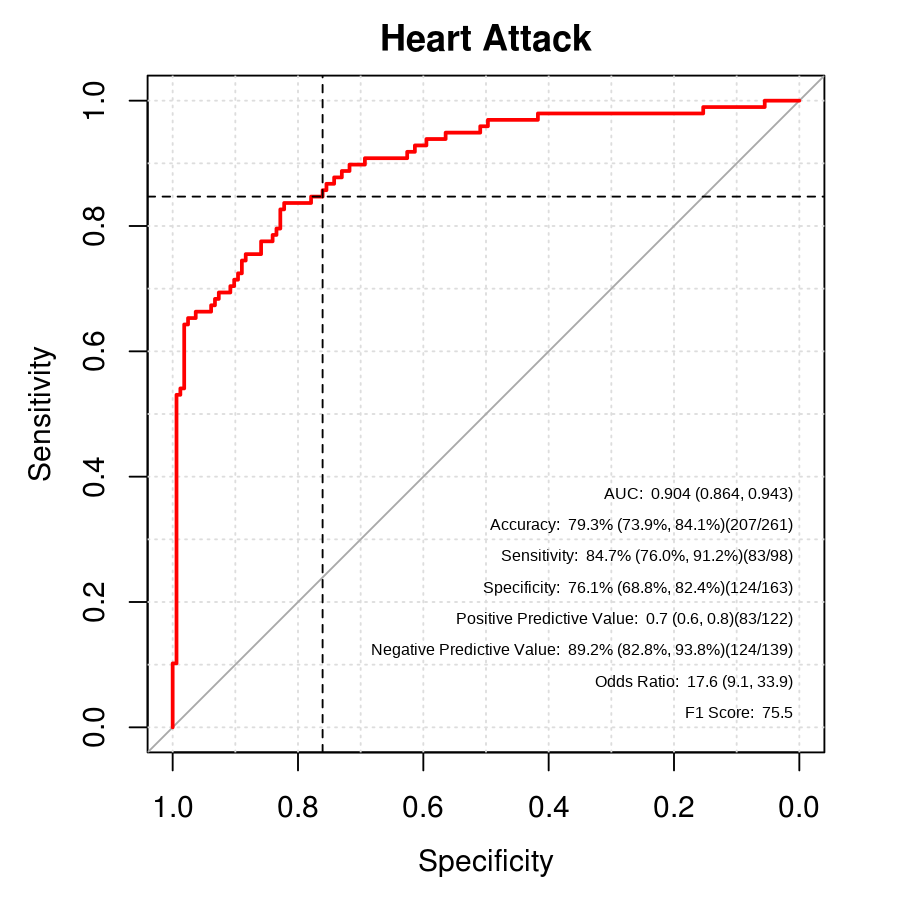
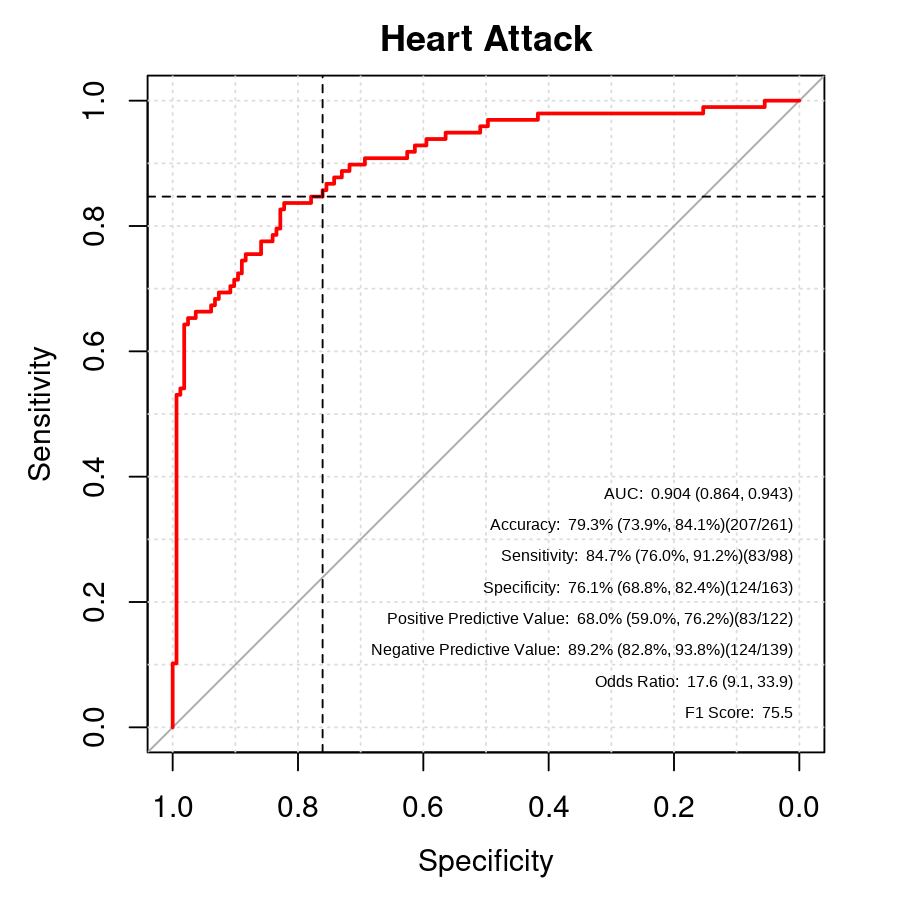
update docs/website

Changed region(s): [[0.4356, 0.6844, 0.8089, 0.7156], [0.4356, 0.0311, 0.6533, 0.0622], [0.0311, 0.4978, 0.0622, 0.5289]]

diff --git a/docs/reference/dx_forest.html b/docs/reference/dx_forest.html
@@ -6,7 +6,7 @@
 <meta http-equiv="X-UA-Compatible" content="IE=edge">
 <meta name="viewport" content="width=device-width, initial-scale=1.0">
 
-<title>Edit a cell within an object returned from dx_forest — dx_edit_cell • diagnosticSummary</title>
+<title>Create table with odds ratios displayed graphically — dx_forest • diagnosticSummary</title>
 
 <!-- jquery -->
 <script src="https://cdnjs.cloudflare.com/ajax/libs/jquery/3.3.1/jquery.min.js" integrity="sha256-FgpCb/KJQlLNfOu91ta32o/NMZxltwRo8QtmkMRdAu8=" crossorigin="anonymous"></script>
@@ -30,9 +30,9 @@
 
 
 
-<meta property="og:title" content="Edit a cell within an object returned from dx_forest — dx_edit_cell" />
+<meta property="og:title" content="Create table with odds ratios displayed graphically — dx_forest" />
 
-<meta property="og:description" content="A convenient wrapper used to edit cells of a gtable." />
+<meta property="og:description" content="Generate a table of diagnostic measures" />
 <meta name="twitter:card" content="summary" />
 
 
@@ -94,51 +94,77 @@
 <div class="row">
   <div class="col-md-9 contents">
     <div class="page-header">
-    <h1>Edit a cell within an object returned from dx_forest</h1>
+    <h1>Create table with odds ratios displayed graphically</h1>
     
-    <div class="hidden name"><code>dx_edit_cell.Rd</code></div>
+    <div class="hidden name"><code>dx_forest.Rd</code></div>
     </div>
 
     <div class="ref-description">
     
-    <p>A convenient wrapper used to edit cells of a gtable.</p>
+    <p>Generate a table of diagnostic measures</p>
     
     </div>
 
-    <pre class="usage"><span class='fu'>dx_edit_cell</span>(<span class='no'>table</span>, <span class='no'>row</span>, <span class='no'>col</span>, <span class='kw'>name</span> <span class='kw'>=</span> <span class='st'>"core-fg"</span>, <span class='no'>...</span>)</pre>
+    <pre class="usage"><span class='fu'>dx_forest</span>(
+  <span class='no'>dx_obj</span>,
+  <span class='kw'>breaks</span> <span class='kw'>=</span> <span class='fl'>NA</span>,
+  <span class='kw'>limits</span> <span class='kw'>=</span> <span class='fl'>NA</span>,
+  <span class='kw'>tick_label_size</span> <span class='kw'>=</span> <span class='fl'>6.5</span>,
+  <span class='kw'>trans</span> <span class='kw'>=</span> <span class='fu'><a href='https://www.rdocumentation.org/packages/base/topics/c'>c</a></span>(<span class='fl'>NA</span>, <span class='st'>"log10"</span>),
+  <span class='kw'>return_grid</span> <span class='kw'>=</span> <span class='fl'>FALSE</span>
+)</pre>
     
     <h2 class="hasAnchor" id="arguments"><a class="anchor" href="#arguments"></a>Arguments</h2>
     <table class="ref-arguments">
     <colgroup><col class="name" /><col class="desc" /></colgroup>
     <tr>
-      <th>table</th>
-      <td><p>a table returned from dx_forest</p></td>
+      <th>dx_obj</th>
+      <td><p>An object of class dx</p></td>
     </tr>
     <tr>
-      <th>row</th>
-      <td><p>Numeric vector of rows to edit</p></td>
+      <th>breaks</th>
+      <td><p>A numeric vector of breaks to include on axis ticks.  If left empty, breaks will be determined using the min and max value from 95% CIs.</p></td>
     </tr>
     <tr>
-      <th>col</th>
-      <td><p>Numeric vector of columns to edit</p></td>
+      <th>limits</th>
+      <td><p>Limits for axis ticks.  Ticks will be generates using base::breaks.  Ignored if breaks are passed.</p></td>
     </tr>
     <tr>
-      <th>name</th>
-      <td><p>Name of table layer to edit</p></td>
+      <th>tick_label_size</th>
+      <td><p>Font size for axis labels.</p></td>
     </tr>
     <tr>
-      <th>...</th>
-      <td><p>Parameters passed to editGrob such as gpar or hjust.</p></td>
+      <th>trans</th>
+      <td><p>Method to transform the odds ratio by.  Currently, only log10 is supported.</p></td>
+    </tr>
+    <tr>
+      <th>return_grid</th>
+      <td><p>Should a grid object be returned? If FALSE, grid is drawn using grid.draw.</p></td>
     </tr>
     </table>
     
 
+    <h2 class="hasAnchor" id="examples"><a class="anchor" href="#examples"></a>Examples</h2>
+    <pre class="examples"><div class='input'><span class='no'>dx_obj</span> <span class='kw'>&lt;-</span> <span class='fu'><a href='dx.html'>dx</a></span>(
+  <span class='kw'>data</span> <span class='kw'>=</span> <span class='no'>dx_heart_failure</span>,
+  <span class='kw'>study_name</span> <span class='kw'>=</span> <span class='st'>"Heart Attack Prediction"</span>,
+  <span class='kw'>data_description</span> <span class='kw'>=</span> <span class='st'>"Validation Data"</span>,
+  <span class='kw'>true_varname</span> <span class='kw'>=</span> <span class='st'>"truth"</span>,
+  <span class='kw'>pred_varname</span> <span class='kw'>=</span> <span class='st'>"predicted"</span>,
+  <span class='kw'>outcome_label</span> <span class='kw'>=</span> <span class='st'>"Heart Attack"</span>,
+  <span class='kw'>threshold_range</span> <span class='kw'>=</span> <span class='fu'><a href='https://www.rdocumentation.org/packages/base/topics/c'>c</a></span>(<span class='fl'>.1</span>,<span class='fl'>.2</span>,<span class='fl'>.3</span>),
+  <span class='kw'>setthreshold</span> <span class='kw'>=</span> <span class='fl'>.3</span>,
+  <span class='kw'>grouping_variables</span> <span class='kw'>=</span> <span class='fu'><a href='https://www.rdocumentation.org/packages/base/topics/c'>c</a></span>(<span class='st'>"AgeGroup"</span>, <span class='st'>"Sex"</span>, <span class='st'>"AgeSex"</span>)
+)
+<span class='fu'>dx_forest</span>(<span class='no'>dx_obj</span>)</div><div class='input'><span class='fu'>dx_forest</span>(<span class='no'>dx_obj</span>, <span class='kw'>trans</span> <span class='kw'>=</span> <span class='st'>"log10"</span>)</div><div class='img'><img src='dx_forest-1.png' alt='' width='576' height='576' /></div></pre>
   </div>
   <div class="col-md-3 hidden-xs hidden-sm" id="sidebar">
     <h2>Contents</h2>
     <ul class="nav nav-pills nav-stacked">
       <li><a href="#arguments">Arguments</a></li>
-                </ul>
+            
+      <li><a href="#examples">Examples</a></li>
+    </ul>
 
   </div>
 </div>

diff --git a/docs/reference/dx.html b/docs/reference/dx.html
@@ -64,7 +64,7 @@ diagnostic test" />
       </button>
       <span class="navbar-brand">
         <a class="navbar-link" href="../index.html">diagnosticSummary</a>
-        <span class="version label label-default" data-toggle="tooltip" data-placement="bottom" title="Released version">0.0.0.9000</span>
+        <span class="version label label-default" data-toggle="tooltip" data-placement="bottom" title="Released version">0.0.0.9002</span>
       </span>
     </div>
 
@@ -107,12 +107,24 @@ diagnostic test</p>
     
     </div>
 
-    <pre class="usage"><span class='fu'>dx</span>(<span class='no'>data</span>, <span class='no'>study_name</span>, <span class='no'>data_description</span>, <span class='kw'>classlabels</span> <span class='kw'>=</span> <span class='fu'><a href='https://www.rdocumentation.org/packages/base/topics/c'>c</a></span>(<span class='st'>"Negative"</span>,
-  <span class='st'>"Positive"</span>), <span class='kw'>threshold_range</span> <span class='kw'>=</span> <span class='fl'>NA</span>, <span class='no'>outcome_label</span>, <span class='no'>pred_varname</span>,
-  <span class='no'>true_varname</span>, <span class='kw'>setthreshold</span> <span class='kw'>=</span> <span class='fl'>0.5</span>, <span class='kw'>poslabel</span> <span class='kw'>=</span> <span class='fl'>1</span>,
-  <span class='kw'>grouping_variables</span> <span class='kw'>=</span> <span class='fl'>NA</span>, <span class='kw'>citype</span> <span class='kw'>=</span> <span class='st'>"exact"</span>, <span class='kw'>bootreps</span> <span class='kw'>=</span> <span class='fl'>2000</span>,
-  <span class='kw'>bootseed</span> <span class='kw'>=</span> <span class='fl'>20191015</span>, <span class='kw'>doboot</span> <span class='kw'>=</span> <span class='fl'>FALSE</span>,
-  <span class='kw'>roc_filename</span> <span class='kw'>=</span> <span class='fu'><a href='https://www.rdocumentation.org/packages/base/topics/paste'>paste0</a></span>(<span class='no'>study_name</span>, <span class='st'>"_ROC"</span>, <span class='no'>data_description</span>, <span class='st'>".pdf"</span>))</pre>
+    <pre class="usage"><span class='fu'>dx</span>(
+  <span class='no'>data</span>,
+  <span class='no'>study_name</span>,
+  <span class='no'>data_description</span>,
+  <span class='kw'>classlabels</span> <span class='kw'>=</span> <span class='fu'><a href='https://www.rdocumentation.org/packages/base/topics/c'>c</a></span>(<span class='st'>"Negative"</span>, <span class='st'>"Positive"</span>),
+  <span class='kw'>threshold_range</span> <span class='kw'>=</span> <span class='fl'>NA</span>,
+  <span class='no'>outcome_label</span>,
+  <span class='no'>pred_varname</span>,
+  <span class='no'>true_varname</span>,
+  <span class='kw'>setthreshold</span> <span class='kw'>=</span> <span class='fl'>0.5</span>,
+  <span class='kw'>poslabel</span> <span class='kw'>=</span> <span class='fl'>1</span>,
+  <span class='kw'>grouping_variables</span> <span class='kw'>=</span> <span class='fl'>NA</span>,
+  <span class='kw'>citype</span> <span class='kw'>=</span> <span class='st'>"exact"</span>,
+  <span class='kw'>bootreps</span> <span class='kw'>=</span> <span class='fl'>2000</span>,
+  <span class='kw'>bootseed</span> <span class='kw'>=</span> <span class='fl'>20191015</span>,
+  <span class='kw'>doboot</span> <span class='kw'>=</span> <span class='fl'>FALSE</span>,
+  <span class='kw'>roc_filename</span> <span class='kw'>=</span> <span class='fu'><a href='https://www.rdocumentation.org/packages/base/topics/paste'>paste0</a></span>(<span class='no'>study_name</span>, <span class='st'>"_ROC"</span>, <span class='no'>data_description</span>, <span class='st'>".pdf"</span>)
+)</pre>
     
     <h2 class="hasAnchor" id="arguments"><a class="anchor" href="#arguments"></a>Arguments</h2>
     <table class="ref-arguments">

diff --git a/docs/reference/dx_roc.html b/docs/reference/dx_roc.html
@@ -63,7 +63,7 @@
       </button>
       <span class="navbar-brand">
         <a class="navbar-link" href="../index.html">diagnosticSummary</a>
-        <span class="version label label-default" data-toggle="tooltip" data-placement="bottom" title="Released version">0.0.0.9000</span>
+        <span class="version label label-default" data-toggle="tooltip" data-placement="bottom" title="Released version">0.0.0.9002</span>
       </span>
     </div>
 
@@ -105,9 +105,15 @@
     
     </div>
 
-    <pre class="usage"><span class='fu'>dx_roc</span>(<span class='no'>dx_obj</span>, <span class='kw'>curve_color</span> <span class='kw'>=</span> <span class='st'>"red"</span>, <span class='kw'>text_color</span> <span class='kw'>=</span> <span class='st'>"black"</span>,
-  <span class='kw'>add_text</span> <span class='kw'>=</span> <span class='fl'>TRUE</span>, <span class='kw'>add_ref_lines</span> <span class='kw'>=</span> <span class='fl'>TRUE</span>, <span class='kw'>add_fractions</span> <span class='kw'>=</span> <span class='fl'>TRUE</span>,
-  <span class='kw'>summary_stats</span> <span class='kw'>=</span> <span class='fu'><a href='https://www.rdocumentation.org/packages/base/topics/c'>c</a></span>(<span class='fl'>1</span>, <span class='fl'>2</span>, <span class='fl'>3</span>, <span class='fl'>4</span>, <span class='fl'>5</span>, <span class='fl'>6</span>, <span class='fl'>7</span>, <span class='fl'>8</span>))</pre>
+    <pre class="usage"><span class='fu'>dx_roc</span>(
+  <span class='no'>dx_obj</span>,
+  <span class='kw'>curve_color</span> <span class='kw'>=</span> <span class='st'>"red"</span>,
+  <span class='kw'>text_color</span> <span class='kw'>=</span> <span class='st'>"black"</span>,
+  <span class='kw'>add_text</span> <span class='kw'>=</span> <span class='fl'>TRUE</span>,
+  <span class='kw'>add_ref_lines</span> <span class='kw'>=</span> <span class='fl'>TRUE</span>,
+  <span class='kw'>add_fractions</span> <span class='kw'>=</span> <span class='fl'>TRUE</span>,
+  <span class='kw'>summary_stats</span> <span class='kw'>=</span> <span class='fu'><a href='https://www.rdocumentation.org/packages/base/topics/c'>c</a></span>(<span class='fl'>1</span>, <span class='fl'>2</span>, <span class='fl'>3</span>, <span class='fl'>4</span>, <span class='fl'>5</span>, <span class='fl'>6</span>, <span class='fl'>7</span>, <span class='fl'>8</span>)
+)</pre>
     
     <h2 class="hasAnchor" id="arguments"><a class="anchor" href="#arguments"></a>Arguments</h2>
     <table class="ref-arguments">

diff --git a/docs/reference/dx_report.html b/docs/reference/dx_report.html
@@ -63,7 +63,7 @@
       </button>
       <span class="navbar-brand">
         <a class="navbar-link" href="../index.html">diagnosticSummary</a>
-        <span class="version label label-default" data-toggle="tooltip" data-placement="bottom" title="Released version">0.0.0.9000</span>
+        <span class="version label label-default" data-toggle="tooltip" data-placement="bottom" title="Released version">0.0.0.9002</span>
       </span>
     </div>
 
@@ -105,8 +105,13 @@
     
     </div>
 
-    <pre class="usage"><span class='fu'>dx_report</span>(<span class='no'>dx_obj</span>, <span class='kw'>roc_options</span> <span class='kw'>=</span> <span class='fu'><a href='https://www.rdocumentation.org/packages/base/topics/list'>list</a></span>(), <span class='kw'>forrest_options</span> <span class='kw'>=</span> <span class='fu'><a href='https://www.rdocumentation.org/packages/base/topics/list'>list</a></span>(),
-  <span class='kw'>output_dir</span> <span class='kw'>=</span> <span class='fu'><a href='https://www.rdocumentation.org/packages/base/topics/getwd'>getwd</a></span>(), <span class='kw'>output_file</span> <span class='kw'>=</span> <span class='st'>"test.html"</span>)</pre>
+    <pre class="usage"><span class='fu'>dx_report</span>(
+  <span class='no'>dx_obj</span>,
+  <span class='kw'>roc_options</span> <span class='kw'>=</span> <span class='fu'><a href='https://www.rdocumentation.org/packages/base/topics/list'>list</a></span>(),
+  <span class='kw'>forest_options</span> <span class='kw'>=</span> <span class='fu'><a href='https://www.rdocumentation.org/packages/base/topics/list'>list</a></span>(),
+  <span class='kw'>output_dir</span> <span class='kw'>=</span> <span class='fu'><a href='https://www.rdocumentation.org/packages/base/topics/getwd'>getwd</a></span>(),
+  <span class='kw'>output_file</span> <span class='kw'>=</span> <span class='st'>"test.html"</span>
+)</pre>
     
     <h2 class="hasAnchor" id="arguments"><a class="anchor" href="#arguments"></a>Arguments</h2>
     <table class="ref-arguments">
@@ -120,8 +125,8 @@
       <td><p>Arguments to be passed to dx_rox</p></td>
     </tr>
     <tr>
-      <th>forrest_options</th>
-      <td><p>Arguments to be passed to dx_forrest</p></td>
+      <th>forest_options</th>
+      <td><p>Arguments to be passed to dx_forest</p></td>
     </tr>
     <tr>
       <th>output_dir</th>

diff --git a/docs/reference/summary.dx.html b/docs/reference/summary.dx.html
@@ -63,7 +63,7 @@
       </button>
       <span class="navbar-brand">
         <a class="navbar-link" href="../index.html">diagnosticSummary</a>
-        <span class="version label label-default" data-toggle="tooltip" data-placement="bottom" title="Released version">0.0.0.9000</span>
+        <span class="version label label-default" data-toggle="tooltip" data-placement="bottom" title="Released version">0.0.0.9002</span>
       </span>
     </div>
 
@@ -106,8 +106,15 @@
     </div>
 
     <pre class="usage"><span class='co'># S3 method for dx</span>
-<span class='fu'><a href='https://www.rdocumentation.org/packages/base/topics/summary'>summary</a></span>(<span class='no'>object</span>, <span class='kw'>thresh</span> <span class='kw'>=</span> <span class='no'>object</span>$<span class='no'>options</span>$<span class='no'>setthreshold</span>,
-  <span class='kw'>variable</span> <span class='kw'>=</span> <span class='fl'>NA</span>, <span class='kw'>level</span> <span class='kw'>=</span> <span class='fl'>NA</span>, <span class='kw'>show_var</span> <span class='kw'>=</span> <span class='no'>T</span>, <span class='kw'>show_label</span> <span class='kw'>=</span> <span class='no'>T</span>, <span class='no'>...</span>)</pre>
+<span class='fu'><a href='https://www.rdocumentation.org/packages/base/topics/summary'>summary</a></span>(
+  <span class='no'>object</span>,
+  <span class='kw'>thresh</span> <span class='kw'>=</span> <span class='no'>object</span>$<span class='no'>options</span>$<span class='no'>setthreshold</span>,
+  <span class='kw'>variable</span> <span class='kw'>=</span> <span class='fl'>NA</span>,
+  <span class='kw'>level</span> <span class='kw'>=</span> <span class='fl'>NA</span>,
+  <span class='kw'>show_var</span> <span class='kw'>=</span> <span class='no'>T</span>,
+  <span class='kw'>show_label</span> <span class='kw'>=</span> <span class='no'>T</span>,
+  <span class='no'>...</span>
+)</pre>
     
     <h2 class="hasAnchor" id="arguments"><a class="anchor" href="#arguments"></a>Arguments</h2>
     <table class="ref-arguments">

diff --git a/docs/reference/as.data.frame.dx.html b/docs/reference/as.data.frame.dx.html
@@ -63,7 +63,7 @@
       </button>
       <span class="navbar-brand">
         <a class="navbar-link" href="../index.html">diagnosticSummary</a>
-        <span class="version label label-default" data-toggle="tooltip" data-placement="bottom" title="Released version">0.0.0.9000</span>
+        <span class="version label label-default" data-toggle="tooltip" data-placement="bottom" title="Released version">0.0.0.9002</span>
       </span>
     </div>
 
@@ -106,8 +106,15 @@
     </div>
 
     <pre class="usage"><span class='co'># S3 method for dx</span>
-<span class='fu'><a href='https://www.rdocumentation.org/packages/base/topics/as.data.frame'>as.data.frame</a></span>(<span class='no'>x</span>, <span class='kw'>row.names</span> <span class='kw'>=</span> <span class='kw'>NULL</span>, <span class='kw'>optional</span> <span class='kw'>=</span> <span class='fl'>TRUE</span>,
-  <span class='kw'>thresh</span> <span class='kw'>=</span> <span class='fl'>NA</span>, <span class='kw'>variable</span> <span class='kw'>=</span> <span class='fl'>NA</span>, <span class='kw'>level</span> <span class='kw'>=</span> <span class='fl'>NA</span>, <span class='no'>...</span>)</pre>
+<span class='fu'><a href='https://www.rdocumentation.org/packages/base/topics/as.data.frame'>as.data.frame</a></span>(
+  <span class='no'>x</span>,
+  <span class='kw'>row.names</span> <span class='kw'>=</span> <span class='kw'>NULL</span>,
+  <span class='kw'>optional</span> <span class='kw'>=</span> <span class='fl'>TRUE</span>,
+  <span class='kw'>thresh</span> <span class='kw'>=</span> <span class='fl'>NA</span>,
+  <span class='kw'>variable</span> <span class='kw'>=</span> <span class='fl'>NA</span>,
+  <span class='kw'>level</span> <span class='kw'>=</span> <span class='fl'>NA</span>,
+  <span class='no'>...</span>
+)</pre>
     
     <h2 class="hasAnchor" id="arguments"><a class="anchor" href="#arguments"></a>Arguments</h2>
     <table class="ref-arguments">

diff --git a/docs/index.html b/docs/index.html
@@ -30,7 +30,7 @@
       </button>
       <span class="navbar-brand">
         <a class="navbar-link" href="index.html">diagnosticSummary</a>
-        <span class="version label label-default" data-toggle="tooltip" data-placement="bottom" title="Released version">0.0.0.9000</span>
+        <span class="version label label-default" data-toggle="tooltip" data-placement="bottom" title="Released version">0.0.0.9002</span>
       </span>
     </div>
 
@@ -143,7 +143,7 @@
 </tr>
 <tr class="odd">
 <td align="left">Positive Predictive Value</td>
-<td align="left">0.7 (0.6, 0.8)</td>
+<td align="left">68.0% (59.0%, 76.2%)</td>
 <td align="left">83/122</td>
 <td align="left">exact</td>
 <td align="left"></td>
@@ -171,8 +171,8 @@
 </tr>
 </tbody>
 </table>
-<div class="sourceCode" id="cb4"><pre class="sourceCode r"><code class="sourceCode r"><a class="sourceLine" id="cb4-1" data-line-number="1"><span class="kw"><a href="reference/dx_forrest.html">dx_forrest</a></span>(dx_obj)</a></code></pre></div>
-<p><img src="reference/figures/forrest_plot.png" width="100%"></p>
+<div class="sourceCode" id="cb4"><pre class="sourceCode r"><code class="sourceCode r"><a class="sourceLine" id="cb4-1" data-line-number="1"><span class="kw"><a href="reference/dx_forest.html">dx_forest</a></span>(dx_obj)</a></code></pre></div>
+<p><img src="reference/figures/forest_plot.png" width="100%"></p>
 <div class="sourceCode" id="cb5"><pre class="sourceCode r"><code class="sourceCode r"><a class="sourceLine" id="cb5-1" data-line-number="1"><span class="kw"><a href="reference/dx_roc.html">dx_roc</a></span>(dx_obj)</a></code></pre></div>
 <p><img src="reference/figures/roc_plot.png" width="50%" style="display: block; margin: auto;"></p>
 </div>

diff --git a/docs/reference/index.html b/docs/reference/index.html
@@ -60,7 +60,7 @@
       </button>
       <span class="navbar-brand">
         <a class="navbar-link" href="../index.html">diagnosticSummary</a>
-        <span class="version label label-default" data-toggle="tooltip" data-placement="bottom" title="Released version">0.0.0.9000</span>
+        <span class="version label label-default" data-toggle="tooltip" data-placement="bottom" title="Released version">0.0.0.9002</span>
       </span>
     </div>
 
@@ -146,7 +146,7 @@
       </tr><tr>
         
         <td>
-          <p><code><a href="dx_forrest.html">dx_forrest()</a></code> </p>
+          <p><code><a href="dx_forest.html">dx_forest()</a></code> </p>
         </td>
         <td><p>Create table with odds ratios displayed graphically</p></td>
       </tr><tr>
@@ -154,7 +154,7 @@
         <td>
           <p><code><a href="dx_edit_cell.html">dx_edit_cell()</a></code> </p>
         </td>
-        <td><p>Edit a cell within an object returned from dx_forrest</p></td>
+        <td><p>Edit a cell within an object returned from dx_forest</p></td>
       </tr>
     </tbody><tbody>
       <tr>

diff --git a/docs/reference/dx_heart_failure.html b/docs/reference/dx_heart_failure.html
@@ -64,7 +64,7 @@ predicted probabilities of having a heart attack." />
       </button>
       <span class="navbar-brand">
         <a class="navbar-link" href="../index.html">diagnosticSummary</a>
-        <span class="version label label-default" data-toggle="tooltip" data-placement="bottom" title="Released version">0.0.0.9000</span>
+        <span class="version label label-default" data-toggle="tooltip" data-placement="bottom" title="Released version">0.0.0.9002</span>
       </span>
     </div>
 

diff --git a/docs/reference/diagnosticSummary.html b/docs/reference/diagnosticSummary.html
@@ -63,7 +63,7 @@
       </button>
       <span class="navbar-brand">
         <a class="navbar-link" href="../index.html">diagnosticSummary</a>
-        <span class="version label label-default" data-toggle="tooltip" data-placement="bottom" title="Released version">0.0.0.9000</span>
+        <span class="version label label-default" data-toggle="tooltip" data-placement="bottom" title="Released version">0.0.0.9002</span>
       </span>
     </div>
 

diff --git a/docs/LICENSE-text.html b/docs/LICENSE-text.html
@@ -60,7 +60,7 @@
       </button>
       <span class="navbar-brand">
         <a class="navbar-link" href="index.html">diagnosticSummary</a>
-        <span class="version label label-default" data-toggle="tooltip" data-placement="bottom" title="Released version">0.0.0.9000</span>
+        <span class="version label label-default" data-toggle="tooltip" data-placement="bottom" title="Released version">0.0.0.9002</span>
       </span>
     </div>
 

diff --git a/docs/LICENSE.html b/docs/LICENSE.html
@@ -60,7 +60,7 @@
       </button>
       <span class="navbar-brand">
         <a class="navbar-link" href="index.html">diagnosticSummary</a>
-        <span class="version label label-default" data-toggle="tooltip" data-placement="bottom" title="Released version">0.0.0.9000</span>
+        <span class="version label label-default" data-toggle="tooltip" data-placement="bottom" title="Released version">0.0.0.9002</span>
       </span>
     </div>
 
